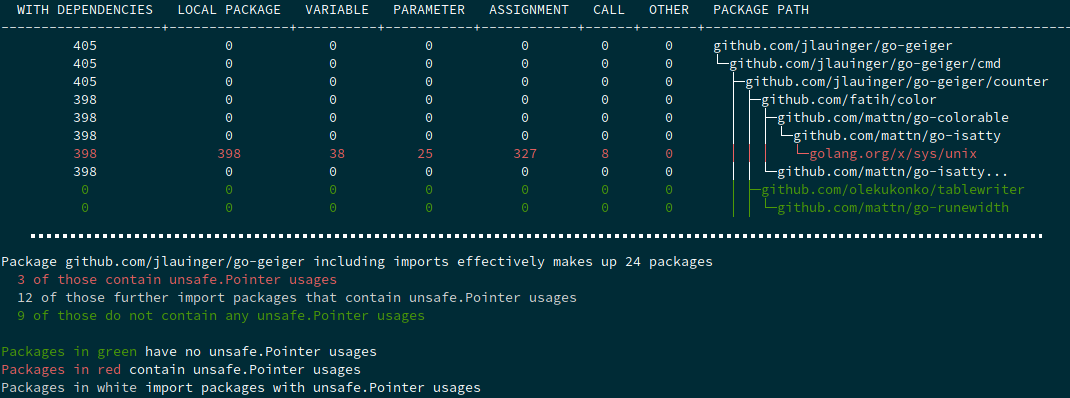
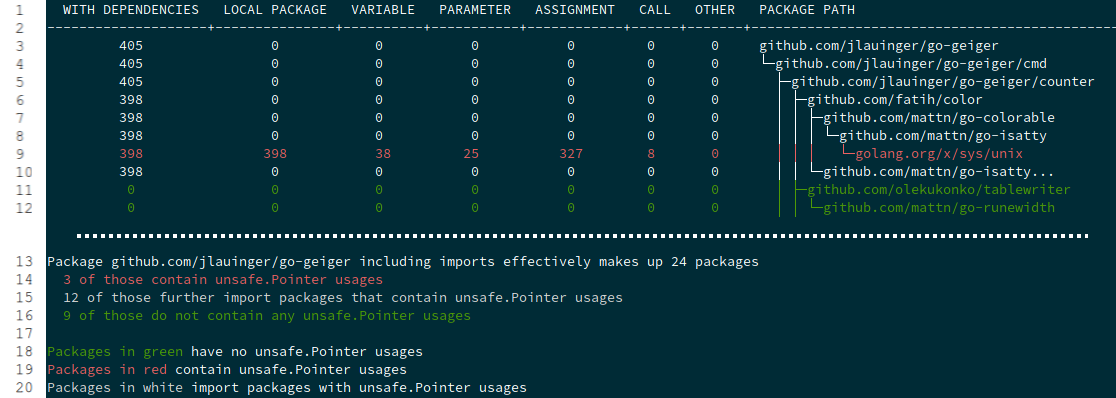
feedback from Tobias

diff --git a/thesis/chapters/04-go-geiger.tex b/thesis/chapters/04-go-geiger.tex
@@ -16,6 +16,7 @@ Figure~\ref{fig:outline4} shows which parts of the contributions of this thesis 
 \section{Design}\label{sec:go-geiger:design}
 
 The novel tool \toolGeiger{} is designed to identify usages of the \unsafe{} \acrshort{API} in Go source code.
+It is available on \github{}\footnote{\url{https://github.com/jlauinger/go-geiger}}.
 In contrast to existing tools like \toolGosec{}, it includes the dependencies of Go packages in the analysis, which
 gives a much better picture of possible \unsafe{} usages.
 It is inspired by \toolCargoGeiger{}\footnote{\url{https://github.com/rust-secure-code/cargo-geiger}}, a similar tool
@@ -49,12 +50,12 @@ part of the resulting program.
 Finally, the analysis results are shown to the user.
 It is possible to output the \unsafe{} usage counts as well as the lines of code containing the usages.
 
-The source code and documentation of \toolGeiger{} is available on
-\github{}\footnote{\url{https://github.com/jlauinger/go-geiger}}.
-It can be installed using the standard Go \acrshort{CLI} tool.
-To execute it, the package names that should be checked are appended as parameters.
-For example, to examine a local package for \unsafe{} usages one would run \textit{go-geiger ./my/package}.
-There is no limitation on the number of packages that can be supplied as parameters.
+%The source code and documentation of \toolGeiger{} is available on
+%\github{}.
+%It can be installed using the standard Go \acrshort{CLI} tool.
+%To execute it, the package names that should be checked are appended as parameters.
+%For example, to examine a local package for \unsafe{} usages one would run \textit{go-geiger ./my/package}.
+%There is no limitation on the number of packages that can be supplied as parameters.
 Figure~\ref{fig:go-geiger-screenshot} shows a screenshot of \toolGeiger{}.
 It presents the analyis results for the \textit{go-geiger} source code itself.
 However, it is missing parts of the table with \unsafe{} counts, which have been excluded to decrease the space needed
@@ -73,12 +74,12 @@ Next, there are five columns with individual usage counts for the four possible 
 that could not be assigned to any of them.
 These columns add up to the \textit{local package} count.
 Finally, the import path for the package is given to identify it.
-Lines that are printed in green (the last \checkNum{two} lines in the table in Figure~\ref{fig:go-geiger-screenshot})
-represent packages with no local \unsafe{} usages.
-Red lines (e.g. the \checkNum{seventh} table row) are packages that directly contain \unsafe{} code, and white lines indicate
-that the package does not contain \unsafe{} usages itself but instead introduces them through its dependencies.
-After the table, there is a summary of the number of packages belonging into these three categories green, red, and
-white, and finally a legend for the colors.
+Lines that are printed in green (Lines~11 and~12 in Figure~\ref{fig:go-geiger-screenshot}) represent packages with no
+local \unsafe{} usages.
+Red lines (Line~9) are packages that directly contain \unsafe{} code, and white lines (e.g.~Line~3) indicate that the
+package does not contain \unsafe{} usages itself but instead introduces them through its dependencies.
+After the table, a summary of the number of packages belonging into these three categories is shown (Lines~14--16).
+The output concludes with a legend for the colors (Lines~18--20).
 
 
 %% ---------------------------------------------------------------------------------------------------------------------
@@ -163,7 +164,7 @@ Furthermore, \projsNotCompiled{} projects could not be compiled and thus also ha
 The \textit{bf} label is used in the table to mark those projects.
 Since \toolGeiger{} analyzes the \acrshort{AST}, it can not work on packages that can not be parsed.
 This results in a set of \projsAnalyzed{} Go projects.
-These have between \checkNum{72,988} and \checkNum{3,075} stars, with an average of \checkNum{7,860}.
+These have between \checkNum{3,075} and \checkNum{72,988} stars, with an average of \checkNum{7,860}.
 
 As a next step, the dependency trees for all projects were built, resulting in \packagesAnalyzed{} unique packages.
 These packages were then analyzed using \toolGeiger{} as well as the existing static analysis tools \toolVet{} and
@@ -183,8 +184,8 @@ code), the root module of the project is used.
 Since the data set was constructed such that all projects support the Go module system as described in the previous
 section, there is a top-level \textit{go.mod} file present for each of them.
 The module specified in that file is stored with the project information as its root module.
-Then, packages that are part of this module are first-party project code, while packages present in the dependency tree
-but not in the root module are dependencies.
+Packages that are part of this module are (first-party) project code.
+Other packages that are present in the dependency tree but not in the root module are (third-party) dependencies.
 
 By looking at \unsafe{} findings that are part of first-party packages, it is possible to determine how many projects
 directly use \unsafe{} in their code.
@@ -213,7 +214,7 @@ usually located, the import depth of all packages used by a project is determine
 Import depth denotes the minimum depth of a package in the dependency tree of a particular project, which is the
 shortest path from the project root module to the package.
 Thus, all packages included in the root module have an import depth of \checkNum{zero}.
-Packages imported be those have a depth of \checkNum{one}, and so on.
+Packages imported by those have a depth of \checkNum{one}, and so on.
 The depth is calculated using breadth-first search on the dependency tree, which saves time when packages are imported
 many times because only the mimimum depth is important here.
 Figure~\ref{fig:unsafe-import-depth} presents a heatmap plot of the number of packages containing \unsafe{} usages by

diff --git a/thesis/chapters/03-unsafe-security-problems.tex b/thesis/chapters/03-unsafe-security-problems.tex
@@ -35,11 +35,11 @@ This is however only a valid operation if \textit{int} and \textit{int64} share 
 \input{assets/listings/chapter3/architecture-dependent-types-cast.tex}
 
 This is true for 64-bit platforms like \textit{amd64}.
-If the code is run on such an architecture, the conversion works fine and the field values in the resulting variable
+If the code is executed on such an architecture, the conversion works fine and the field values in the resulting variable
 \textit{violet} are as expected.
 In contrast, if the code is run on an architecture where \textit{int} and \textit{int64} have different sizes or
 alignments, then the values of \textit{violet} are undefined.
-This is the case, for example, when the code is run on a 32-bit platform like \textit{i386}.
+This is the case, for example, on a 32-bit platform like \textit{i386}.
 When the structure definitions are not placed directly next to each other but in separate files, packages, or even
 modules, then spotting the difference between the incompatible structs is much harder.
 On top of that, the bug might never occur in testing but only on specific platforms that get used in production.
@@ -47,7 +47,7 @@ Possible consequences of a bug like this depend on how the resulting struct is u
 If data gets written to it, it changes invalid memory which can lead to a code injection vulnerability, and if it is
 passed as output it can create an information leak vulnerability.
 
-On top of incompatible field sizes, there could also be a different endianess on some architecture.
+In addition to incompatible field sizes, there could also be a different endianess on some architecture.
 In this case, using a direct cast using the \unsafe{} \acrshort{API} is unaware of possible changes of the byte order,
 for example, incoming network data and data stored in the memory could be represented as big and little endians and
 cause a mismatch.
@@ -132,8 +132,9 @@ This is a \textit{use-after-free} bug.
 
 Listing~\ref{lst:string-to-bytes} contains this bug.
 The \textit{Data} field of the \textit{reflect.SliceHeader} structure created in Line~3 is of type \textit{uintptr}.
-Since the header value is not derived by cast from a real slice it does not benefit from the special case built into the
-Go runtime that treats \textit{uintptr} references that are part of slices and strings as references.
+The header value is not derived by cast from a real slice.
+Therefore, it does not benefit from the special case built into the Go runtime, which treats \textit{uintptr} references
+that are part of slices and strings as references.
 Specifically, the problem is that the slice header has been constructed as a composite literal.
 Therefore, after Line~7 the \textit{bytesHeader} variable becomes a plain \textit{uintptr} value, and the
 original string \textit{s} is not used any longer.
@@ -313,8 +314,8 @@ are too few bytes for the alleged number of forget requests, then the method sho
 However, as the listing shows there is no actual code to stop further execution of the method, instead there is only a
 log message noting that there was a malformed request with too few bytes available (Lines~7--8).
 
-A proof-of-concept implementation of a potential attacker showed that the method actually accesses invalid memory data
-located after the request data.
+A proof-of-concept implementation\footnote{\url{https://github.com/jlauinger/go-unsafepointer-poc}} of a potential
+exploit showed that the method actually accesses invalid memory data located after the request data.
 Depending on the code that calls this function, an attacker can use this to read or write this memory, again possibly
 enabling arbitrary code injection or information leak exploits.
 In this case, a simple \textit{return} statement after Line~8 would have prevented this bug.
@@ -360,7 +361,7 @@ A system call, or syscall, is a function provided by the operating system which 
 The processor registers control which syscall gets executed and which parameters it receives.
 Therefore, an attacker needs \acrshort{ROP} gadgets to control the contents of the registers, as well as to trigger
 the syscall.
-There are several alternative such gadgets in the Go standard library.
+There are several alternative gadgets for this available in the Go standard library.
 
 Using the \textit{mprotect} call, the attacker can set a memory area of their choice to have both writable and
 executable flags, for example, the heap area.
@@ -369,8 +370,8 @@ spawning a shell to receive further arbitrary commands.
 The payload is provided as part of the input string created by the attacker.
 Finally, by using the address of the code area just like an address of another \acrshort{ROP} gadget the attacker can
 make the processor jump to the payload code.
-Because in contrast to the stack the code is located on an executable page, the CPU runs it and the code injection
-attack succeeds.
+Because in contrast to the stack the code is located on an executable page, the \acrshort{CPU} executes it and the code
+injection attack succeeds.
 This clearly demonstrates the severeness of buffer overflows introduced through misuses of the \unsafe{} \acrshort{API}
 in Go programs.
 

diff --git a/thesis/chapters/02-background.tex b/thesis/chapters/02-background.tex
@@ -162,7 +162,7 @@ They are shown in yellow in Figure~\ref{subfig:memory:stack-frame}.
 The last value that gets pushed into the caller frame is the address of the next instruction to execute after the callee
 function returns.
 It is called return address or return instruction pointer (\acrshort{RIP}) and shown in green.
-Then, the new stack frame for the callee begins with the CPU register contents at the function call time.
+Then, the new stack frame for the callee begins with the \acrshort{CPU} register contents at the function call time.
 These are stored on the stack so that they can be restored to the original values before returning back to the caller.
 They are shown in green as well in Figure~\ref{subfig:memory:stack-frame}.
 After this, local variables of the callee function that do not surpass its lifetime are pushed to the stack.
@@ -171,7 +171,7 @@ purple in Figure~\ref{subfig:memory:stack-frame}.
 The \textit{sum} variable (Line~3) is not pushed to the callee stack frame, because since it is a return value it was
 already placed in the caller stack frame.
 When the function \textit{add} returns, the stack pointer \textit{rsp} will be incremented up to the \textit{sum} value
-to destroy the callee stack frame, and the CPU will jump to the return address that was stored on the stack.
+to destroy the callee stack frame, and the \acrshort{CPU} will jump to the return address that was stored on the stack.
 
 In constrast, data on the heap is organized in chunks~\cite{ferres2010}.
 There can be several allocated chunks of data on the heap, and they are not necessarily adjacent.
@@ -267,7 +267,7 @@ When a buffer variable is placed on the stack and too much data gets written to 
 memory addresses.
 After overwriting the other local variables and saved registers, this can cause the saved return address to get changed.
 If an attacker can control the data that is placed there, they can change the program flow by carefully choosing the
-address that the CPU jumps to after the current function returns.
+address that the \acrshort{CPU} jumps to after the current function returns.
 
 Figure~\ref{fig:stack-smashing-payload} shows a visualization of an example of input data used to execute arbitrary code
 by overwriting the saved return address.
@@ -463,7 +463,7 @@ A grammar construction of the programming language syntax begins with a start sy
 (\textit{AssignStmt}) in this case.
 It can have children, which are recursively substituted for concrete values.
 In Figure~\ref{fig:ast}, the right hand side of the assignment is an addition, an instance of a binary expression
-(\textit{BinaryExpr}), with basic integer literals (\acrshort{BasicLit}) 3 and 5 used for the addition.
+(\textit{BinaryExpr}), with basic integer literals (\textit{BasicLit}) 3 and 5 used for the addition.
 The \acrshort{AST} shows the composition of the source code into logical units of growing size, with the leafs being
 identifiers, literals, or any other nodes that do not contain further children, such as an empty return statement, for
 example.

diff --git a/thesis/chapters/08-conclusion.tex b/thesis/chapters/08-conclusion.tex
@@ -49,8 +49,9 @@ data set and \goSaferEvaluationPackagesGosaferAccuracy{} on the set of packages.
 Its high precision allows it to be used productively.
 \toolSafer{} thus is a valuable tool that can be added to existing tools like \toolVet{} and \toolGosec{}, which are
 not good in detecting \unsafe{} misuses with a large number of false negatives and false positives, respectively.
-Using \toolSafer{}, more than \numberBugsFixedRounded{} bugs in open-source Go libraries were found and \numberPRs{}
-pull requests to the authors to fix them have been submitted.
+Using \toolSafer{}, more than \numberBugsFixedRounded{} bugs in open-source Go libraries were found.
+To fix them, \numberPRs{} pull requests have been submitted to the authors, and \checkNum{one} already existed.
+So far, \numberPRsMerged{} pull requests have been merged.
 
 In summary, \unsafe{} code is commonly used in the most popular Go projects for a number of reasons such as efficiency
 or the foreign function interface.

diff --git a/thesis/chapters/07-discussion.tex b/thesis/chapters/07-discussion.tex
@@ -63,6 +63,7 @@ Section~\ref{subsec:unsafe-security-problems:slice-casts:incorrect-length}.
 I submitted \numberPRs{} pull requests with patches to these bugs to the authors of the affected libraries on
 \github{}.
 These pull requests contain fixes to one or more bugs, with a total number of \numberBugsFixed{} resolved bugs.
+Furthermore, \checkNum{one} additional pull request already existed.
 They are listed in Table~\ref{tbl:pull-requests} along with their respective \github{} projects.
 The Popularity column indicates how many projects in the data set of the top \projsTotal{} most popular Go projects use
 the respective library, showing the impact of bugs.

diff --git a/thesis/assets/plots/chapter4/distribution-unsafe-types.tex b/thesis/assets/plots/chapter4/distribution-unsafe-types.tex
@@ -1,6 +1,6 @@
 \begin{figure}[htp!]
     \centering
     \includegraphics[width=0.8\textwidth]{assets/plots/chapter4/distribution-unsafe-types.pdf}
-    \caption{Distribution of different types of unsafe tokens}
+    \caption{Number of \unsafe{} findings of different types}
     \label{fig:unsafe-tokens-distribution}
 \end{figure}

diff --git a/thesis/config/acronyms-definition.tex b/thesis/config/acronyms-definition.tex
@@ -9,6 +9,7 @@
 \newacronym{CFG}{CFG}{Control Flow Graph}
 \newacronym{CLI}{CLI}{Command Line Interface}
 \newacronym{CI}{CI}{Continuous Integration}
+\newacronym{CPU}{CPU}{Central Processing Unit}
 \newacronym{CSV}{CSV}{Comma-Separated Values}
 
 \newacronym{DEP}{DEP}{Data Execution Prevention}
